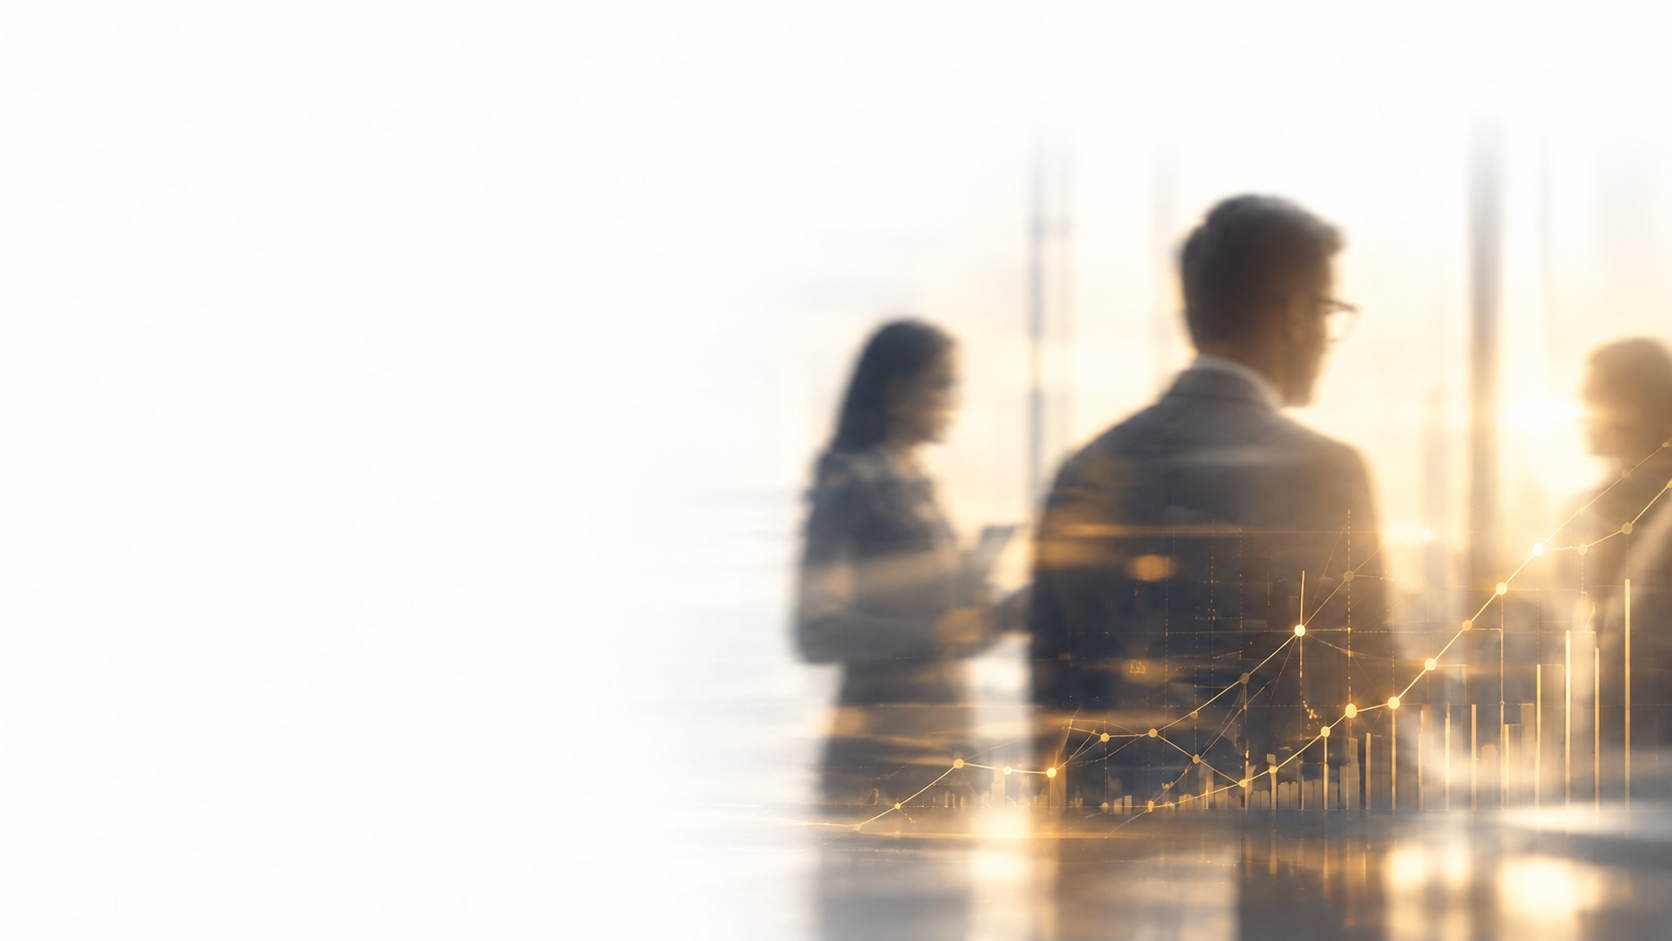
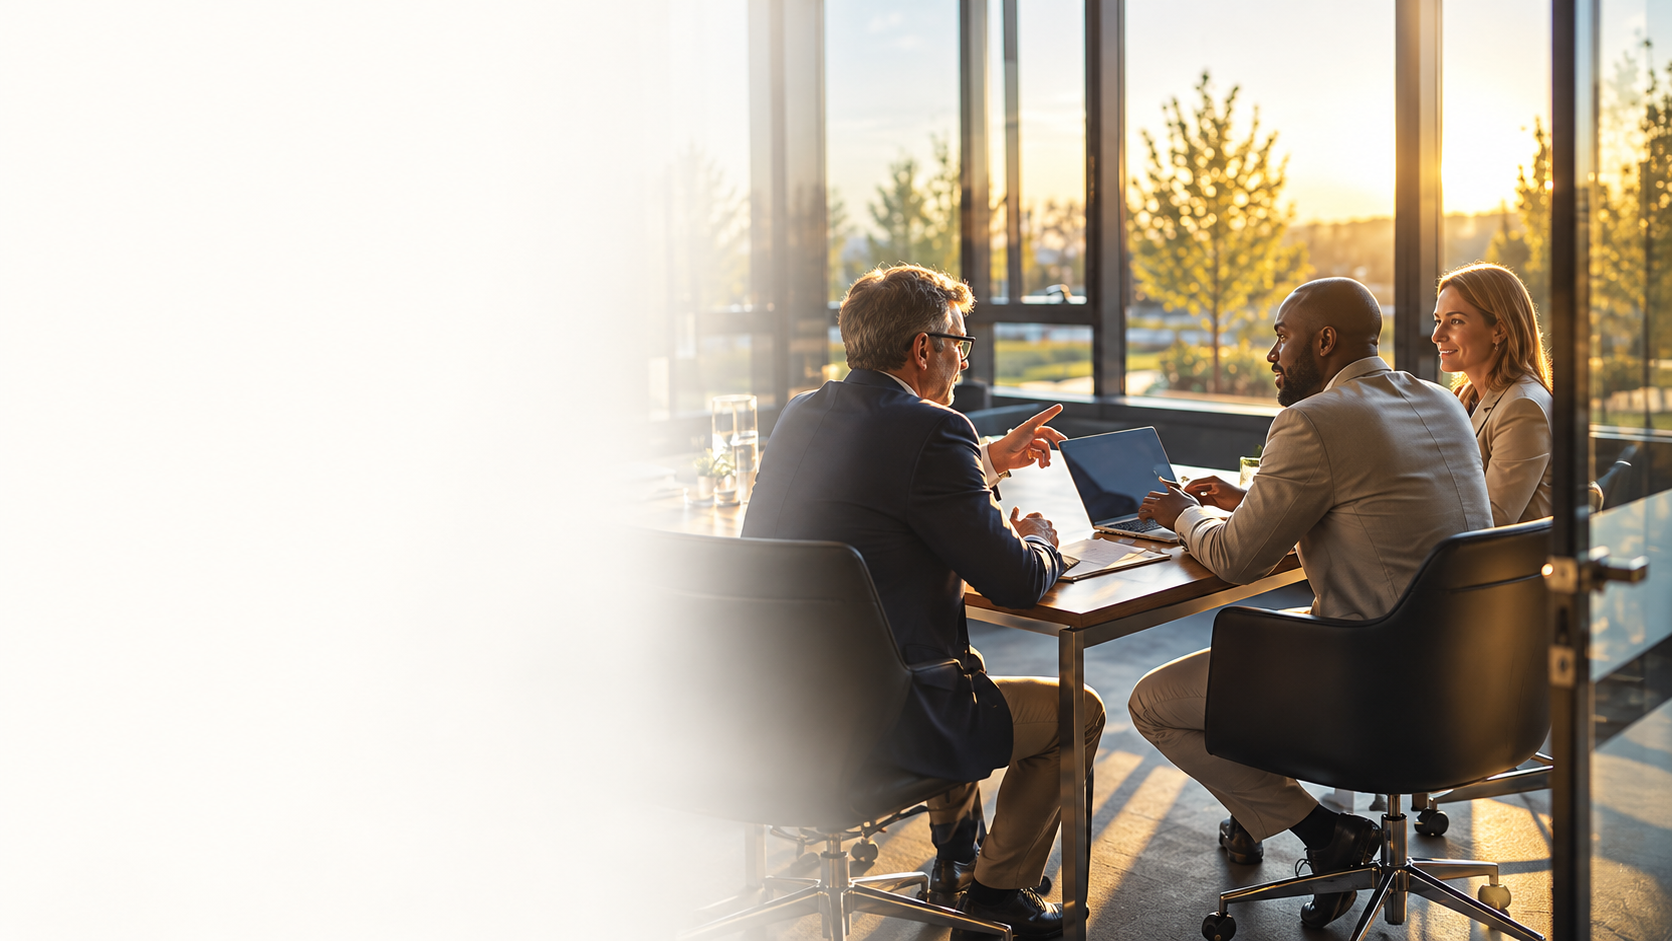
Ajustes na home: textos, remocoes e novas imagens de fundo
- Painel 01 de "O que fazemos por voce": nova descricao
- Remove a nota "Para estruturas mais complexas..." dos planos
- Remove a secao de CTA final ("...quem entende os dois lados")
- Reduz ainda mais o respiro vertical dos 3 paineis de servico
  (min-height 88vh->76vh, padding vertical menor)
- Troca as imagens de fundo dos paineis 01 e 02 pelas novas fotos
  (mesmo enquadramento claro-esquerda/escuro-direita de antes, sem
  precisar mudar as classes de posicionamento do texto)

diff --git a/index.html b/index.html
@@ -19,7 +19,7 @@
   <link rel="preconnect" href="https://fonts.gstatic.com" crossorigin />
   <link href="https://fonts.googleapis.com/css2?family=Montserrat:wght@500;600;700;800&family=Inter:wght@400;500;600;700&family=Geist:wght@400;500&family=Sorts+Mill+Goudy:ital@0;1&display=swap" rel="stylesheet" />
 
-  <link rel="stylesheet" href="assets/css/styles.css?v=20260930b" />
+  <link rel="stylesheet" href="assets/css/styles.css?v=20260930c" />
 </head>
 <body>
   <a class="skip-link" href="#conteudo">Pular para o conteúdo</a>
@@ -114,20 +114,19 @@
     </section>
 
     <div class="stack" data-stack>
-      <div class="stack__panel stack__panel--dark-text stack__panel--left" style="background-image:url('assets/img/servicos-bg-01.png')">
+      <div class="stack__panel stack__panel--dark-text stack__panel--left" style="background-image:url('assets/img/servicos-bg-01.png?v=2')">
         <div class="stack__inner reveal">
           <span class="stack__num">01</span>
           <span class="tag">Abertura e Estruturação</span>
           <h3 class="stack__title">Abertura de Empresa</h3>
           <p class="stack__text">
-            Abertura de empresa, abertura de conta bancária nas principais instituições
-            financeiras e disponibilização de endereço virtual. Tudo realizado de forma
-            remota, sem burocracia e com total segurança.
+            Abertura de empresa, endereço virtual, abertura de conta bancaria nas
+            principais instituições financeiras, sem burocracia e de forma remota.
           </p>
         </div>
       </div>
 
-      <div class="stack__panel stack__panel--light-text stack__panel--right" style="background-image:url('assets/img/servicos-bg-02.png')">
+      <div class="stack__panel stack__panel--light-text stack__panel--right" style="background-image:url('assets/img/servicos-bg-02.png?v=2')">
         <div class="stack__inner reveal">
           <span class="stack__num">02</span>
           <span class="tag">Gestão Contábil e Compliance</span>
@@ -429,11 +428,6 @@
             </div></div>
           </div>
         </div>
-
-        <p class="plans-note">
-          Para estruturas mais complexas, o preço também pode ser calculado como uma fração
-          da economia gerada no seu cenário.
-        </p>
       </div>
     </section>
 
@@ -541,17 +535,6 @@
       </div>
     </section>
 
-    <!-- ============ 16. CTA FINAL ============ -->
-    <section class="section final-cta" id="cta-final">
-      <div class="container container--wide">
-        <h2 class="h2">Abra sua empresa nos Estados Unidos com quem entende os dois lados.</h2>
-        <div class="final-cta__buttons">
-          <a class="btn btn--gold" href="#contato">Falar com Especialista
-            <svg class="btn__icon" viewBox="0 0 24 24" fill="none" stroke="currentColor" stroke-width="2" aria-hidden="true"><path d="M5 12h14M13 6l6 6-6 6"/></svg>
-          </a>
-        </div>
-      </div>
-    </section>
   </main>
 
   <!-- ============ FOOTER ============ -->
@@ -635,12 +618,12 @@
     </div>
   </div>
 
-  <script src="assets/js/i18n.js?v=20260930b" defer></script>
-  <script src="assets/js/main.js?v=20260930b" defer></script>
-  <script src="assets/js/button-glow.js?v=20260930b" defer></script>
+  <script src="assets/js/i18n.js?v=20260930c" defer></script>
+  <script src="assets/js/main.js?v=20260930c" defer></script>
+  <script src="assets/js/button-glow.js?v=20260930c" defer></script>
   <script type="module">
-    import { initGlobe } from './assets/js/globe.js?v=20260930b';
-    import { initFlatMap } from './assets/js/office-map.js?v=20260930b';
+    import { initGlobe } from './assets/js/globe.js?v=20260930c';
+    import { initFlatMap } from './assets/js/office-map.js?v=20260930c';
 
     var heroGlobeEl = document.getElementById('hero-globe');
     if (heroGlobeEl) {

diff --git a/seja-parceiro.html b/seja-parceiro.html
@@ -18,7 +18,7 @@
   <link rel="preconnect" href="https://fonts.gstatic.com" crossorigin />
   <link href="https://fonts.googleapis.com/css2?family=Montserrat:wght@500;600;700;800&family=Inter:wght@400;500;600;700&family=Geist:wght@400;500&family=Sorts+Mill+Goudy:ital@0;1&display=swap" rel="stylesheet" />
 
-  <link rel="stylesheet" href="assets/css/styles.css?v=20260930b" />
+  <link rel="stylesheet" href="assets/css/styles.css?v=20260930c" />
 </head>
 <body>
   <a class="skip-link" href="#conteudo">Pular para o conteúdo</a>
@@ -430,8 +430,8 @@
     <svg viewBox="0 0 32 32" fill="currentColor" aria-hidden="true"><path d="M16 3C9 3 3.5 8.5 3.5 15.5c0 2.4.7 4.7 1.9 6.7L3 29l7-1.8c1.9 1 4 1.6 6.1 1.6 7 0 12.5-5.5 12.5-12.5S23 3 16 3zm0 22.7c-1.9 0-3.7-.5-5.3-1.5l-.4-.2-4.1 1.1 1.1-4-.3-.4a10 10 0 01-1.6-5.4C5.5 9.9 10.2 5.3 16 5.3s10.5 4.6 10.5 10.2S21.8 25.7 16 25.7zm5.7-7.6c-.3-.2-1.8-.9-2.1-1s-.5-.2-.7.2-.8 1-1 1.2-.4.2-.7.1a8.4 8.4 0 01-2.5-1.5 9.3 9.3 0 01-1.7-2.1c-.2-.3 0-.5.1-.7l.5-.6c.2-.2.2-.3.4-.6s0-.4 0-.6-.7-1.7-1-2.3c-.3-.6-.5-.5-.7-.5h-.6c-.2 0-.6.1-.9.4-.3.4-1.2 1.2-1.2 2.9s1.2 3.4 1.4 3.6c.2.3 2.4 3.7 5.9 5.2.8.4 1.5.6 2 .7.8.3 1.6.2 2.2.1.7-.1 1.8-.7 2.1-1.5.3-.7.3-1.4.2-1.5s-.3-.2-.6-.4z"/></svg>
   </a>
 
-  <script src="assets/js/i18n.js?v=20260930b" defer></script>
-  <script src="assets/js/main.js?v=20260930b" defer></script>
-  <script src="assets/js/button-glow.js?v=20260930b" defer></script>
+  <script src="assets/js/i18n.js?v=20260930c" defer></script>
+  <script src="assets/js/main.js?v=20260930c" defer></script>
+  <script src="assets/js/button-glow.js?v=20260930c" defer></script>
 </body>
 </html>

diff --git a/assets/css/styles.css b/assets/css/styles.css
@@ -611,10 +611,10 @@ ul { margin: 0; padding: 0; list-style: none; }
 .stack__panel {
   position: sticky;
   top: 0;
-  min-height: 88vh;
+  min-height: 76vh;
   display: flex;
   align-items: center;
-  padding: clamp(28px, 6vw, 96px) clamp(20px, 6vw, 96px);
+  padding: clamp(16px, 3vw, 48px) clamp(20px, 6vw, 96px);
   overflow: hidden;
   background-size: cover;
   background-position: center;
@@ -1500,17 +1500,7 @@ ul { margin: 0; padding: 0; list-style: none; }
 }
 @keyframes spin { to { transform: rotate(360deg); } }
 
-/* ---------- 19. CTA final + footer ---------- */
-.final-cta { background: var(--navy-2); text-align: center; }
-.final-cta h2 { color: #fff; max-width: 720px; margin-inline: auto; }
-.final-cta__buttons {
-  margin-top: 32px;
-  display: flex;
-  gap: 16px;
-  justify-content: center;
-  flex-wrap: wrap;
-}
-
+/* ---------- 19. Footer ---------- */
 .site-footer {
   background: var(--navy-deep);
   color: #9fb0c6;
@@ -2013,9 +2003,6 @@ ul { margin: 0; padding: 0; list-style: none; }
   .timeline__line { left: 16px; }
 
   .form-grid { grid-template-columns: 1fr; }
-
-  .final-cta__buttons { flex-direction: column; }
-  .final-cta__buttons .btn { width: 100%; }
 
   /* Carrossel horizontal com snap */
   .snap-scroller {
